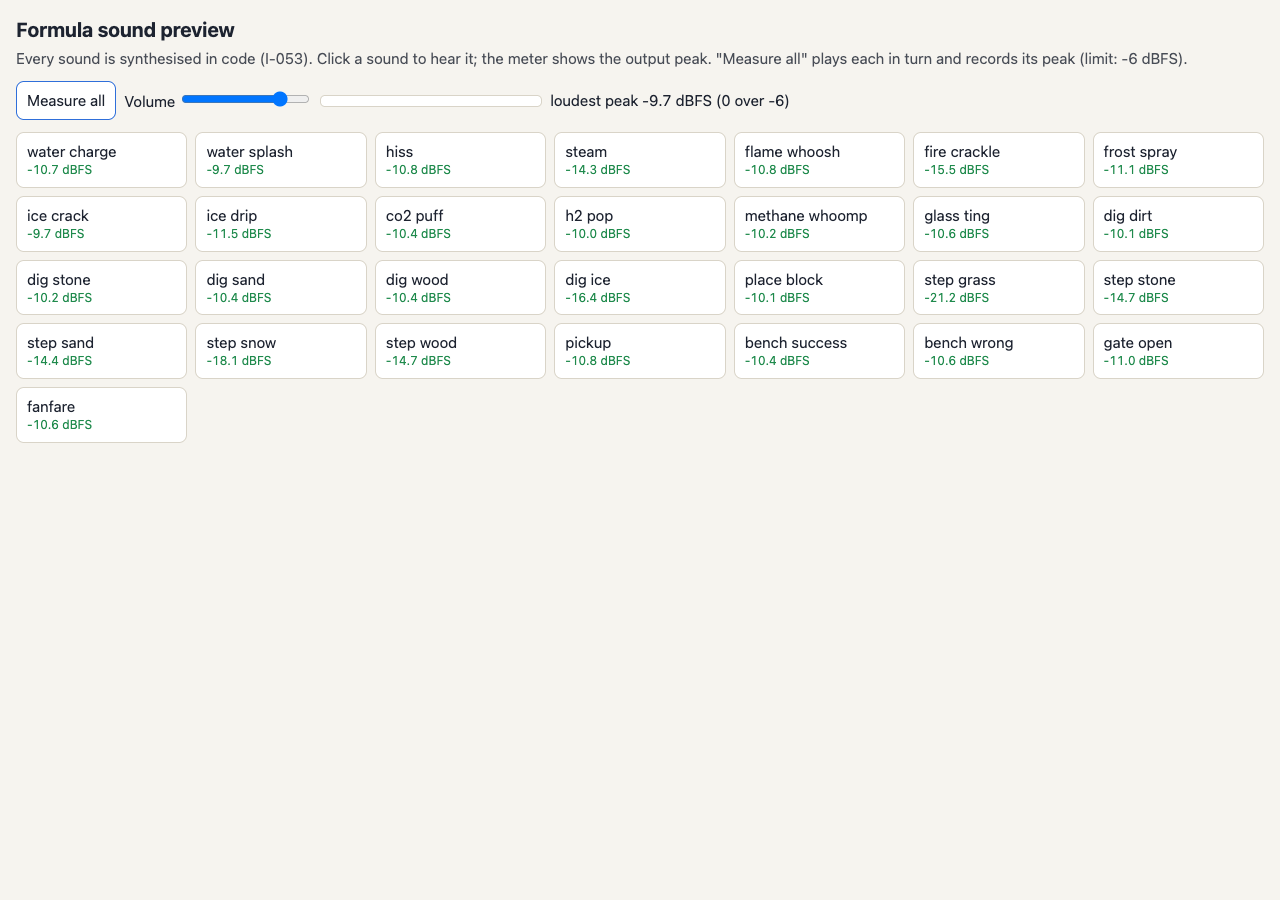
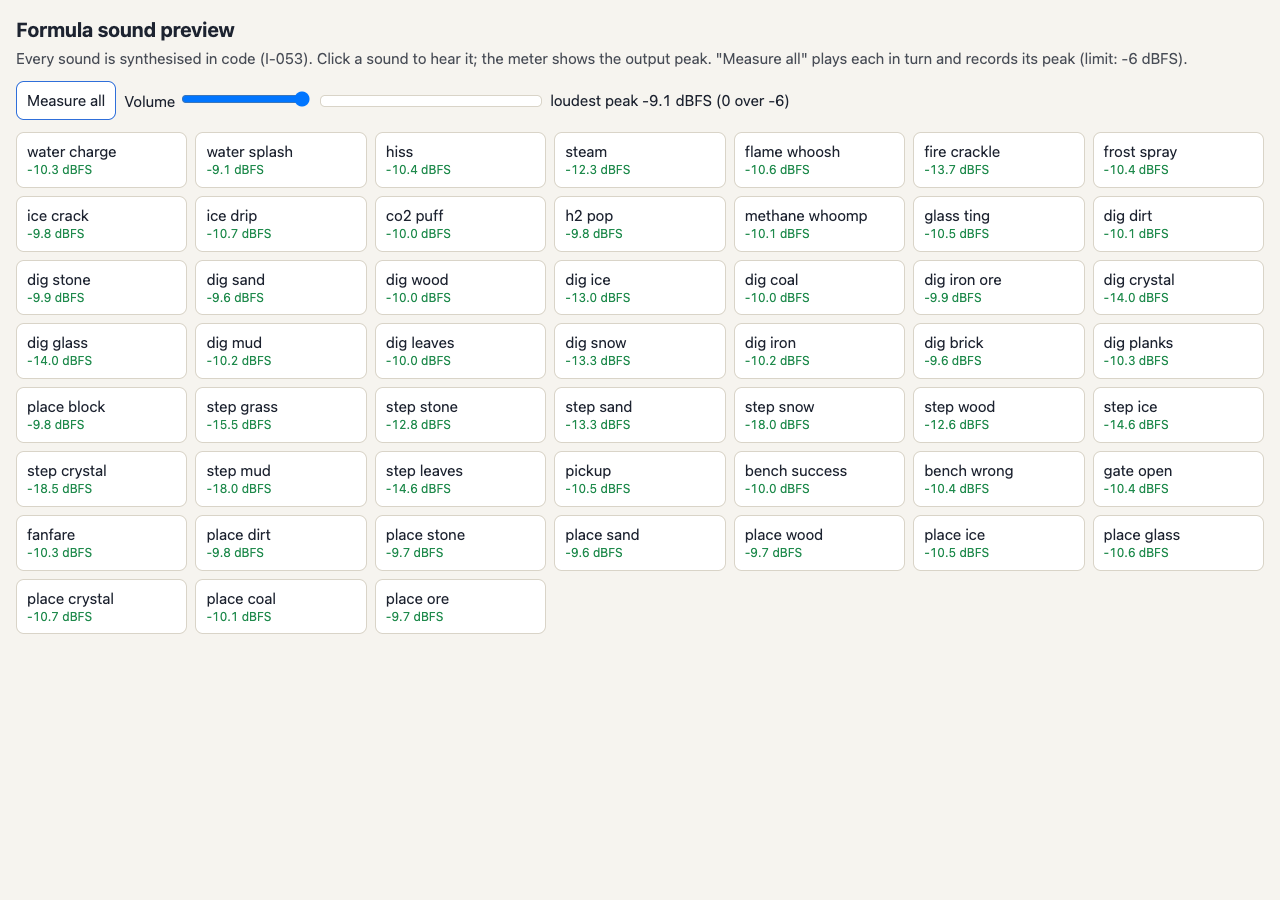
I-053: more block sounds (dig coal, iron ore, crystal, glass, mud, leaves, snow, iron, brick, planks; place by material; steps on ice, crystal, mud, leaves)
Every block-world material (I-052 spec 5.2) now has a dig sound and a
footstep, directly or through a block that sounds the same (digMaterial /
stepMaterial: coal_ore -> coal, cliffstone and runestone -> stone, planks
-> wood underfoot, ...). place_block takes a material (dirt, stone, sand,
wood, ice, glass, crystal, coal, ore) and keeps its default. Same palette
and limits: measured in Chrome at full volume every sound peaks at
-9.1 dBFS or lower (footsteps -18.5 to -12.6). node:test 5/5.

Loop-Session: wave-15-mac
Claude-Session: https://claude.ai/code/session_01LpBky4ce2RoSR6fXKw3uvv

diff --git a/crates/bevy-client/web/sfx.js b/crates/bevy-client/web/sfx.js
@@ -7,7 +7,8 @@
 //   import { play, setVolume, names } from './sfx.js';
 //   play('water_splash');                 // one-shot
 //   const c = play('water_charge');       // a held sound: c.stop() on release
-//   play('dig', { material: 'stone' });   // per-material sounds
+//   play('dig', { material: 'stone' });   // per-material sounds (dig, step,
+//                                          // place_block)
 //   setVolume(0.5);                       // 0..1, clamped
 //
 // The AudioContext is created lazily on the first user gesture (browsers keep
@@ -19,9 +20,27 @@ const TRIM = 0.5;
 /** Everything goes through this low-pass: warm, no harsh highs. */
 const WARM_HZ = 6000;
 
-/** Materials for `dig` and `step` (an unknown one falls back to the first). */
-export const DIG = ['dirt', 'stone', 'sand', 'wood', 'ice'];
-export const STEP = ['grass', 'stone', 'sand', 'snow', 'wood'];
+/** Materials with their own `dig`, `step` and `place_block` sound. */
+export const DIG = ['dirt', 'stone', 'sand', 'wood', 'ice', 'coal', 'iron_ore', 'crystal', 'glass', 'mud', 'leaves', 'snow', 'iron', 'brick', 'planks'];
+export const STEP = ['grass', 'stone', 'sand', 'snow', 'wood', 'ice', 'crystal', 'mud', 'leaves'];
+export const PLACE = ['dirt', 'stone', 'sand', 'wood', 'ice', 'glass', 'crystal', 'coal', 'ore'];
+/** Block-world material ids (content/materials.json) that sound like another. */
+/** @type {Record<string, string>} */
+const DIG_ALIAS = { ore: 'iron_ore', coal_ore: 'coal', grass: 'dirt', cliffstone: 'stone', runestone: 'stone', ash: 'sand' };
+/** @type {Record<string, string>} */
+const STEP_ALIAS = {
+  dirt: 'grass', planks: 'wood', glass: 'ice', ash: 'sand',
+  cliffstone: 'stone', runestone: 'stone', brick: 'stone', iron: 'stone',
+  coal: 'stone', coal_ore: 'stone', iron_ore: 'stone', ore: 'stone',
+};
+/** @type {Record<string, string>} */
+const PLACE_ALIAS = { ore: 'iron_ore', coal_ore: 'coal' };
+/** The material whose dig sound plays for block `m` ('' if none). @param {string | undefined} m */
+export const digMaterial = (m) => (m ? DIG_ALIAS[m] || m : '');
+/** The material whose footstep plays on block `m`. @param {string | undefined} m */
+export const stepMaterial = (m) => (m ? STEP_ALIAS[m] || m : '');
+/** @param {string | undefined} m */
+const placeMaterial = (m) => (m ? PLACE_ALIAS[m] || m : '');
 
 /**
  * @typedef {{ stop(): void }} Handle
@@ -260,6 +279,26 @@ const DIG_SHAPE = {
   sand: ['highpass', 1500, 700, 0.6, 0.22, 0, 0.45],
   wood: ['bandpass', 700, 500, 4, 0.14, 220, 0.6],
   ice: ['bandpass', 3000, 1800, 5, 0.12, 0, 0.45],
+  // Coal: a dry, crumbly crunch, lower and softer than stone.
+  coal: ['bandpass', 1100, 450, 1.2, 0.16, 130, 0.55],
+  // Iron ore: stone with a dull metallic clank (see `dig`).
+  iron_ore: ['bandpass', 1500, 800, 2.5, 0.13, 170, 0.55],
+  // Crystal: a bright chip; `dig` adds glassy chimes.
+  crystal: ['bandpass', 3200, 2200, 6, 0.08, 0, 0.35],
+  // Glass: a sharp crack; `dig` adds a falling tinkle of shards.
+  glass: ['bandpass', 3600, 1500, 3, 0.06, 0, 0.45],
+  // Mud: a wet, low squelch.
+  mud: ['lowpass', 600, 180, 2, 0.22, 90, 0.6],
+  // Leaves: a short, airy rustle.
+  leaves: ['highpass', 2200, 1200, 0.5, 0.2, 0, 0.35],
+  // Snow: a soft, compact crunch.
+  snow: ['bandpass', 1800, 900, 0.8, 0.16, 0, 0.45],
+  // Iron: a solid knock; `dig` adds a metallic ring.
+  iron: ['bandpass', 1200, 900, 3, 0.1, 200, 0.5],
+  // Brick: like stone, a little lower and drier.
+  brick: ['bandpass', 1400, 700, 2, 0.12, 160, 0.55],
+  // Planks: a brighter, thinner knock than logs.
+  planks: ['bandpass', 950, 650, 4, 0.11, 260, 0.55],
 };
 /** Footsteps per material: [filter type, Hz, Q, length s, thud Hz, peak]. */
 /** @type {Record<string, [BiquadFilterType, number, number, number, number, number]>} */
@@ -269,21 +308,75 @@ const STEP_SHAPE = {
   sand: ['highpass', 1800, 0.5, 0.12, 0, 0.22],
   snow: ['lowpass', 2200, 0.6, 0.16, 0, 0.26],
   wood: ['bandpass', 500, 3, 0.09, 160, 0.34],
+  // Ice: a slick, glassy tap.
+  ice: ['bandpass', 2400, 4, 0.07, 0, 0.6],
+  // Crystal: a clear tap with a faint ring (see `step`).
+  crystal: ['bandpass', 2000, 5, 0.07, 0, 0.55],
+  // Mud: a soft squelch (see `step`).
+  mud: ['lowpass', 500, 2, 0.14, 0, 0.3],
+  // Leaves: a light rustle.
+  leaves: ['highpass', 2400, 0.5, 0.12, 0, 0.2],
+};
+/** Placing per material: [thud Hz, thud peak, noise type, noise Hz, Q, noise peak, length s]. */
+/** @type {Record<string, [number, number, BiquadFilterType, number, number, number, number]>} */
+const PLACE_SHAPE = {
+  default: [200, 0.6, 'lowpass', 1200, 0.8, 0.35, 0.12],
+  dirt: [150, 0.55, 'lowpass', 800, 0.7, 0.4, 0.13],
+  stone: [210, 0.6, 'bandpass', 1500, 2, 0.35, 0.1],
+  sand: [120, 0.35, 'highpass', 1600, 0.5, 0.35, 0.14],
+  wood: [240, 0.6, 'bandpass', 600, 4, 0.35, 0.11],
+  ice: [300, 0.35, 'bandpass', 2600, 5, 0.3, 0.09],
+  glass: [330, 0.3, 'bandpass', 3000, 4, 0.25, 0.08],
+  crystal: [360, 0.3, 'bandpass', 3200, 6, 0.25, 0.08],
+  coal: [140, 0.5, 'bandpass', 900, 1.2, 0.35, 0.12],
+  iron_ore: [180, 0.6, 'bandpass', 1300, 2.5, 0.3, 0.11],
 };
 
-/** @param {Ctx} c @param {string} mat */
-function dig(c, mat) {
-  const [type, f0, f1, q, len, thud, peak] = DIG_SHAPE[mat] || /** @type {any} */ (DIG_SHAPE.dirt);
+/** @param {Ctx} c @param {string} m */
+function dig(c, m) {
+  const shape = DIG_SHAPE[m];
+  const [type, f0, f1, q, len, thud, peak] = shape || /** @type {any} */ (DIG_SHAPE.dirt);
   noisy(c, type, f0, f1, q, len, env(c, 0.004, len, peak));
   if (thud) osc(c, 'sine', thud, thud * 0.6, len, env(c, 0.003, len, peak * 0.8));
-  if (mat === 'ice') bell(c, 2400, c.t, 0.25, 0.08);
+  if (m === 'ice') bell(c, 2400, c.t, 0.25, 0.08);
+  if (m === 'iron') {
+    // Worked iron rings longer and higher than ore.
+    bell(c, 784, c.t + 0.01, 0.4, 0.1);
+    bell(c, 2093, c.t + 0.01, 0.25, 0.04);
+  }
+  if (m === 'mud') osc(c, 'sine', 220, 120, 0.12, env(c, 0.01, 0.12, 0.15, c.t + 0.06), c.t + 0.06);
+  if (m === 'iron_ore') {
+    // A dull metallic clank: two inharmonic partials, quickly damped.
+    bell(c, 523, c.t + 0.01, 0.22, 0.12);
+    bell(c, 1397, c.t + 0.01, 0.15, 0.05);
+  }
+  if (m === 'crystal') {
+    for (const [dt, f] of /** @type {[number, number][]} */ ([[0, 2093], [0.05, 2637], [0.11, 3136]])) bell(c, f, c.t + dt, 0.5, 0.1);
+  }
+  if (m === 'glass') {
+    // Shards falling: a tinkle of short high notes, each a little later.
+    for (const [dt, f] of /** @type {[number, number][]} */ ([[0.04, 3520], [0.09, 2794], [0.15, 3951], [0.22, 3136], [0.31, 2637], [0.4, 3322]])) {
+      bell(c, f, c.t + dt, 0.18, 0.07);
+    }
+  }
 }
 
-/** @param {Ctx} c @param {string} mat */
-function step(c, mat) {
-  const [type, f, q, len, thud, peak] = STEP_SHAPE[mat] || /** @type {any} */ (STEP_SHAPE.grass);
+/** @param {Ctx} c @param {string} m */
+function step(c, m) {
+  const [type, f, q, len, thud, peak] = STEP_SHAPE[m] || /** @type {any} */ (STEP_SHAPE.grass);
   noisy(c, type, f, f * 0.7, q, len, env(c, 0.008, len, peak));
   if (thud) osc(c, 'sine', thud, thud * 0.7, len, env(c, 0.004, len, peak * 0.6));
+  if (m === 'crystal') bell(c, 1760, c.t + 0.01, 0.3, 0.04);
+  if (m === 'mud') osc(c, 'sine', 180, 110, 0.1, env(c, 0.01, 0.1, 0.12, c.t + 0.04), c.t + 0.04);
+}
+
+/** @param {Ctx} c @param {string} m */
+function place(c, m) {
+  const [thud, tp, type, f, q, np, len] = PLACE_SHAPE[m] || /** @type {any} */ (PLACE_SHAPE.default);
+  osc(c, 'sine', thud, thud * 0.6, len, env(c, 0.003, len, tp));
+  noisy(c, type, f, f * 0.5, q, len * 0.7, env(c, 0.002, len * 0.7, np));
+  if (m === 'glass' || m === 'crystal') bell(c, m === 'glass' ? 2349 : 2637, c.t + 0.01, 0.35, 0.07);
+  if (m === 'iron_ore') bell(c, 587, c.t + 0.01, 0.18, 0.08);
 }
 
 /** Every sound: (ctx, crackle buffer) -> optional handle. */
@@ -376,22 +469,35 @@ const SOUNDS = {
     bell(c, 1760, c.t, 0.9, 0.3);
     bell(c, 2637, c.t + 0.01, 0.6, 0.1);
   },
-  dig: (c) => dig(c, c.o.material || 'dirt'),
+  dig: (c) => dig(c, digMaterial(c.o.material) || 'dirt'),
   dig_dirt: (c) => dig(c, 'dirt'),
   dig_stone: (c) => dig(c, 'stone'),
   dig_sand: (c) => dig(c, 'sand'),
   dig_wood: (c) => dig(c, 'wood'),
   dig_ice: (c) => dig(c, 'ice'),
-  place_block: (c) => {
-    osc(c, 'sine', 200, 120, 0.12, env(c, 0.003, 0.12, 0.6));
-    noisy(c, 'lowpass', 1200, 500, 0.8, 0.08, env(c, 0.002, 0.08, 0.35));
-  },
-  step: (c) => step(c, c.o.material || 'grass'),
+  dig_coal: (c) => dig(c, 'coal'),
+  dig_iron_ore: (c) => dig(c, 'iron_ore'),
+  dig_crystal: (c) => dig(c, 'crystal'),
+  dig_glass: (c) => dig(c, 'glass'),
+  dig_mud: (c) => dig(c, 'mud'),
+  dig_leaves: (c) => dig(c, 'leaves'),
+  dig_snow: (c) => dig(c, 'snow'),
+  dig_iron: (c) => dig(c, 'iron'),
+  dig_brick: (c) => dig(c, 'brick'),
+  dig_planks: (c) => dig(c, 'planks'),
+  // A block snapping into place; `material` picks its sound (default: a
+  // neutral soft thunk).
+  place_block: (c) => place(c, placeMaterial(c.o.material) || 'default'),
+  step: (c) => step(c, stepMaterial(c.o.material) || 'grass'),
   step_grass: (c) => step(c, 'grass'),
   step_stone: (c) => step(c, 'stone'),
   step_sand: (c) => step(c, 'sand'),
   step_snow: (c) => step(c, 'snow'),
   step_wood: (c) => step(c, 'wood'),
+  step_ice: (c) => step(c, 'ice'),
+  step_crystal: (c) => step(c, 'crystal'),
+  step_mud: (c) => step(c, 'mud'),
+  step_leaves: (c) => step(c, 'leaves'),
   pickup: (c) => {
     bell(c, 660, c.t, 0.18, 0.3);
     bell(c, 990, c.t + 0.08, 0.25, 0.3);

diff --git a/test/sfx.test.ts b/test/sfx.test.ts
@@ -2,7 +2,7 @@
 // a mocked AudioContext that records every node and every scheduled value.
 import assert from "node:assert/strict";
 import { test } from "node:test";
-import { createSfx, DIG, STEP } from "../crates/bevy-client/web/sfx.js";
+import { createSfx, DIG, PLACE, STEP, digMaterial, stepMaterial } from "../crates/bevy-client/web/sfx.js";
 
 class Param {
   value: number;
@@ -62,8 +62,11 @@ const make = () => {
 const REQUIRED = [
   "water_charge", "water_splash", "hiss", "steam", "flame_whoosh", "fire_crackle", "frost_spray",
   "ice_crack", "ice_drip", "co2_puff", "h2_pop", "methane_whoomp", "glass_ting",
-  "dig_dirt", "dig_stone", "dig_sand", "dig_wood", "dig_ice", "place_block",
-  "step_grass", "step_stone", "step_sand", "step_snow", "step_wood",
+  "dig_dirt", "dig_stone", "dig_sand", "dig_wood", "dig_ice",
+  "dig_coal", "dig_iron_ore", "dig_crystal", "dig_glass",
+  "dig_mud", "dig_leaves", "dig_snow", "dig_iron", "dig_brick", "dig_planks", "place_block",
+  "step_grass", "step_stone", "step_sand", "step_snow", "step_wood", "step_ice", "step_crystal",
+  "step_mud", "step_leaves",
   "pickup", "bench_success", "bench_wrong", "gate_open", "fanfare",
 ];
 
@@ -81,10 +84,28 @@ test("every sound in the list exists and plays from generated nodes only", () =>
     // Sources are oscillators or the code-made noise buffers: no samples.
     for (const x of made) if (x instanceof Buf) assert.ok(x.buffer, `${n}: buffer source has a generated buffer`);
   }
-  assert.equal(DIG.length, 5);
-  assert.equal(STEP.length, 5);
-  for (const m of [...DIG, "lava"]) assert.ok(sfx.play("dig", { material: m }), `dig ${m}`);
+  assert.deepEqual(DIG, ["dirt", "stone", "sand", "wood", "ice", "coal", "iron_ore", "crystal", "glass", "mud", "leaves", "snow", "iron", "brick", "planks"]);
+  assert.deepEqual(STEP, ["grass", "stone", "sand", "snow", "wood", "ice", "crystal", "mud", "leaves"]);
+  assert.deepEqual(PLACE, ["dirt", "stone", "sand", "wood", "ice", "glass", "crystal", "coal", "ore"]);
+  for (const m of [...DIG, "ore", "lava"]) assert.ok(sfx.play("dig", { material: m }), `dig ${m}`);
   for (const m of [...STEP, "lava"]) assert.ok(sfx.play("step", { material: m }), `step ${m}`);
+  // place_block varies by material and keeps a default; each material
+  // builds a different graph from the default one.
+  const graph = (o: Record<string, string>) => {
+    const before = ctx.nodes.length;
+    sfx.play("place_block", o);
+    return ctx.nodes.slice(before).map((n) => (n instanceof Filter ? `${n.kind}:${n.type}:${n.frequency.events[0]?.[1]}` : n instanceof Osc ? `osc:${n.frequency.events[0]?.[1]}` : n.kind)).join(",");
+  };
+  const base = graph({});
+  assert.equal(graph({ material: "lava" }), base, "an unknown material is the default");
+  const seen = new Set<string>();
+  for (const m of PLACE) {
+    const g = graph({ material: m });
+    assert.notEqual(g, base, `place ${m} differs from the default`);
+    seen.add(g);
+  }
+  assert.equal(seen.size, PLACE.length, "every placed material sounds different");
+  assert.equal(graph({ material: "ore" }), graph({ material: "iron_ore" }), "ore is iron ore");
 });
 
 test("an unknown name is a no-op, and nothing plays before the first gesture", () => {
@@ -136,4 +157,29 @@ test("output stays at or below -6 dBFS: limiter, warm low-pass and a 0.5 trim", 
       for (const [kind, v] of g.gain.events) if (kind !== "cancel") assert.ok(v <= 1, `${n}: gain ${v}`);
     }
   }
+});
+
+// The block world's materials (I-052 spec 5.2, content/materials.json): every
+// block you can dig has its own dig sound, and every block you can stand on a
+// footstep, either directly or through a block that sounds the same.
+const DIGGABLE = ["dirt", "grass", "sand", "stone", "cliffstone", "runestone", "wood", "leaves", "planks", "snow", "ice", "mud",
+  "coal_ore", "iron_ore", "crystal", "glass", "iron", "brick", "ash"];
+const WALKABLE = ["dirt", "grass", "sand", "stone", "cliffstone", "runestone", "wood", "leaves", "planks", "snow", "ice", "mud",
+  "coal_ore", "iron_ore", "crystal", "glass", "iron", "brick", "ash"];
+
+test("every block-world material has a dig sound and a footstep", () => {
+  for (const m of DIGGABLE) assert.ok(DIG.includes(digMaterial(m)), `dig ${m} -> ${digMaterial(m)}`);
+  for (const m of WALKABLE) assert.ok(STEP.includes(stepMaterial(m)), `step ${m} -> ${stepMaterial(m)}`);
+  assert.equal(digMaterial("coal_ore"), "coal");
+  assert.equal(digMaterial("ore"), "iron_ore");
+  assert.equal(stepMaterial("planks"), "wood");
+  assert.equal(digMaterial("lava"), "lava", "unknown ids pass through (the sound then falls back)");
+  const { ctx, sfx } = make();
+  sfx.unlock();
+  for (const m of DIGGABLE) {
+    const before = ctx.nodes.length;
+    assert.ok(sfx.play("dig", { material: m }), `dig ${m}`);
+    assert.ok(ctx.nodes.length > before);
+  }
+  for (const m of WALKABLE) assert.ok(sfx.play("step", { material: m }), `step ${m}`);
 });

diff --git a/docs/loop/items/I-053/sfx-preview.html b/docs/loop/items/I-053/sfx-preview.html
@@ -59,9 +59,9 @@ const ensure = () => {
 };
 const db = (x) => (x > 0 ? 20 * Math.log10(x) : -Infinity);
 const LEN = { water_charge: 1.6, fire_crackle: 2.2, gate_open: 2.2, fanfare: 2.4, steam: 1.4 };
-const measure = async (name, btn) => {
+const measure = async (name, btn, opts = {}) => {
   peak = 0;
-  const h = sfx.play(name, name === 'fire_crackle' ? { duration: 2 } : {});
+  const h = sfx.play(name, name === 'fire_crackle' ? { duration: 2, ...opts } : opts);
   await new Promise((r) => setTimeout(r, (LEN[name] || 1.0) * 1000));
   if (h) h.stop();
   await new Promise((r) => setTimeout(r, 150));
@@ -72,18 +72,20 @@ const measure = async (name, btn) => {
 };
 const grid = document.getElementById('grid');
 const buttons = {};
-for (const n of sfx.names.filter((n) => n !== 'dig' && n !== 'step')) {
+const add = (label, name, opts) => {
   const b = document.createElement('button');
-  b.innerHTML = `${n.replace(/_/g, ' ')}<span class="db">&nbsp;</span>`;
-  b.addEventListener('click', () => { if (ensure()) measure(n, b); });
+  b.innerHTML = `${label}<span class="db">&nbsp;</span>`;
+  b.addEventListener('click', () => { if (ensure()) measure(name, b, opts); });
   grid.appendChild(b);
-  buttons[n] = b;
-}
+  buttons[label] = [name, b, opts];
+};
+for (const n of sfx.names.filter((n) => n !== 'dig' && n !== 'step')) add(n.replace(/_/g, ' '), n, {});
+for (const m of ['dirt', 'stone', 'sand', 'wood', 'ice', 'glass', 'crystal', 'coal', 'ore']) add(`place ${m}`, 'place_block', { material: m });
 document.getElementById('vol').addEventListener('input', (e) => sfx.setVolume(+e.target.value));
 document.getElementById('all').addEventListener('click', async () => {
   if (!ensure()) return;
   const out = {};
-  for (const [n, b] of Object.entries(buttons)) out[n] = await measure(n, b);
+  for (const [label, [n, b, o]] of Object.entries(buttons)) out[label] = await measure(n, b, o);
   const worst = Math.max(...Object.values(out));
   document.getElementById('summary').textContent = `loudest peak ${worst.toFixed(1)} dBFS (${Object.values(out).filter((d) => d > -6).length} over -6)`;
   window.__levels = out;
